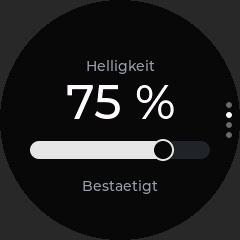
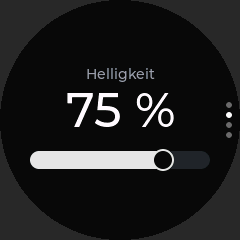
Round Controller: Statustexte entfernen
Auf den Seiten Ein/Aus und Helligkeit gibt es keine Statustexte mehr
("Bestaetigt", "Gateway offline", "Lampe aus" usw.). Zustand zeigen die
Statuspunkte (ESP-NOW, Licht an/aus), der Schalter und gesperrte Bedien-
elemente. Die Gateway-Seite zeigt weiterhin online/offline und Band.
Screenshots und README angepasst.

Claude-Session: https://claude.ai/code/session_01XRbTNR4FRdpa3sNittWBxo

Changed region(s): [[0.1167, 0.2333, 0.875, 0.8167]]

diff --git a/next/controller-round/main/ui.cpp b/next/controller-round/main/ui.cpp
@@ -1,6 +1,6 @@
 // Runde LVGL-Oberflaeche (240x240) im LeviLuma-Next-Skin (shadcn zinc_dark, Montserrat, Statuspunkte
 // und Symbole wie Next). Vier Seiten untereinander (senkrecht wischen, Seitenpunkte rechts):
-//   0 Ein/Aus: Schalter wie auf der RockBase-Uebersicht, Status
+//   0 Ein/Aus: Schalter wie auf der RockBase-Uebersicht, Statuspunkte (ESP-NOW, Licht an/aus)
 //   1 Helligkeit: waagerechter Regler (1..100 % wie Protokoll) mit grossem Prozentwert (wie Legacy)
 //   2 Farbe: Farbpunkte des Farbsets (LeviPalette) auf einem Kreis, Name und Hex in der Mitte,
 //     Tipp rechts = naechste, links = vorige Farbe (wie die Legacy-LCD-UI)
@@ -9,6 +9,8 @@
 // (die ESP-NOW-Befehle im gemeinsamen Protokoll bleiben bestehen).
 // Dazu eigene Bildschirme fuer die Gateway-Suche und die Schluesseleingabe.
 //
+// Keine Statustexte: Verbindung und Licht zeigen die Statuspunkte, gesperrte Bedienelemente zeigen,
+// dass gerade nichts gesteuert werden kann (Gateway offline, Band getrennt, Lampe aus).
 // Zustand: Angezeigt wird der vom Gateway bestaetigte LightState. Nur waehrend der Finger auf
 // dem Helligkeitsregler liegt bzw. ein Befehl unterwegs ist, zeigt die Oberflaeche den Eingabewert.
 #include <math.h>
@@ -34,9 +36,9 @@ static constexpr int PAGES = 4;
 static constexpr int PAGE_POWER = 0, PAGE_BRIGHT = 1, PAGE_COLOR = 2, PAGE_GATEWAY = 3;
 static lv_obj_t *mainScr, *tv, *pager[PAGES];
 // Ein/Aus
-static lv_obj_t *dotGw, *dotPower, *gwName, *powerSw, *statusLbl, *setupBox;
+static lv_obj_t *dotGw, *dotPower, *gwName, *powerSw, *setupBox;
 // Helligkeit
-static lv_obj_t *bright, *brightTitle, *brightLbl, *brightStatus;
+static lv_obj_t *bright, *brightTitle, *brightLbl;
 // Farbe
 static lv_obj_t *colorTile, *palDots[LeviPalette::N], *colorName, *colorHex;
 static int colorSel = -1; // Index der bestaetigten Farbe im Farbset, -1 = eigene Farbe
@@ -137,27 +139,6 @@ static void reportError(lvp_err_t e) {
   }
 }
 
-// ---------------- Gemeinsam ----------------
-
-static const char *statusText() {
-  if (!view.online) {
-    return "Gateway offline";
-  }
-  if (view.pending) {
-    return "Wird gesendet ...";
-  }
-  if (view.lastTimeout || view.lastError) {
-    return appErrorText(view.lastError, view.lastTimeout);
-  }
-  if (!view.stateValid) {
-    return "Abgleich ...";
-  }
-  if (!(view.state.flags & LVP_STATE_BLE)) {
-    return "Band getrennt";
-  }
-  return "Bestaetigt";
-}
-
 // ---------------- Seite Ein/Aus ----------------
 
 // Schalter wie auf der RockBase-Uebersicht (ui_home.cpp): Eingabe sendet, die Anzeige folgt der Bestaetigung
@@ -197,10 +178,6 @@ static void buildPower(lv_obj_t *tile) {
   lv_obj_set_ext_click_area(powerSw, 8);
   lv_obj_add_event_cb(powerSw, powerChanged, LV_EVENT_VALUE_CHANGED, nullptr);
 
-  statusLbl = label(tile, "", true);
-  lv_label_set_long_mode(statusLbl, LV_LABEL_LONG_MODE_DOTS);
-  lv_obj_set_width(statusLbl, 150);
-  lv_obj_align(statusLbl, LV_ALIGN_CENTER, 0, 60);
 
   // ohne gekoppeltes Gateway: Hinweis statt Bedienung
   setupBox = plainBox(tile);
@@ -217,7 +194,6 @@ static void refreshPower() {
   bool paired = haveView && view.paired;
   lv_obj_set_hidden(setupBox, paired);
   lv_obj_set_hidden(powerSw, !paired);
-  lv_obj_set_hidden(statusLbl, !paired);
   lv_obj_set_hidden(gwName, !paired);
   dotState(dotGw, paired ? (view.online ? 1 : 0) : -1);
   dotState(dotPower, paired && view.stateValid && view.state.power >= 0 ? (view.state.power == 1 ? 1 : 0) : -1);
@@ -230,7 +206,6 @@ static void refreshPower() {
   if (!view.pending) { // waehrend ein Befehl laeuft, bleibt die Eingabe sichtbar (wie RockBase)
     lv_obj_set_state(powerSw, LV_STATE_CHECKED, on);
   }
-  lv_label_set_text(statusLbl, statusText());
 }
 
 // ---------------- Seite Helligkeit ----------------
@@ -263,28 +238,24 @@ static void buildBrightness(lv_obj_t *tile) {
   bright = lv_slider_create(tile);
   lv_slider_set_range(bright, LVP_BRIGHTNESS_MIN, LVP_BRIGHTNESS_MAX);
   lv_obj_set_size(bright, 180, 18);
-  lv_obj_align(bright, LV_ALIGN_CENTER, 0, 30);
+  lv_obj_align(bright, LV_ALIGN_CENTER, 0, 40);
   lv_obj_set_ext_click_area(bright, 14);
   lv_obj_set_scroll_chain(bright, false);
   lv_obj_add_event_cb(bright, brightEvent, LV_EVENT_ALL, nullptr);
 
   brightTitle = label(tile, "Helligkeit", true);
-  lv_obj_align(brightTitle, LV_ALIGN_CENTER, 0, -54);
+  lv_obj_align(brightTitle, LV_ALIGN_CENTER, 0, -46);
   brightLbl = label(tile, "-");
   lv_obj_set_style_text_font(brightLbl, &lv_font_montserrat_48, 0);
-  lv_obj_align(brightLbl, LV_ALIGN_CENTER, 0, -18);
-  brightStatus = label(tile, "", true);
-  lv_label_set_long_mode(brightStatus, LV_LABEL_LONG_MODE_DOTS);
-  lv_obj_set_width(brightStatus, 130);
-  lv_obj_align(brightStatus, LV_ALIGN_CENTER, 0, 66);
+  lv_obj_align(brightLbl, LV_ALIGN_CENTER, 0, -10);
 }
 
 static void refreshBrightness() {
   bool paired = haveView && view.paired;
   lv_obj_set_hidden(bright, !paired);
   lv_obj_set_hidden(brightLbl, !paired);
+  lv_label_set_text(brightTitle, paired ? "Helligkeit" : "Kein Gateway");
   if (!paired) {
-    lv_label_set_text(brightStatus, "Kein Gateway");
     return;
   }
   bool on = lampOn();
@@ -296,7 +267,6 @@ static void refreshBrightness() {
     snprintf(t, sizeof(t), "%u %%", view.state.brightness);
     lv_label_set_text(brightLbl, t);
   }
-  lv_label_set_text(brightStatus, usable() && view.stateValid && !on && !view.pending ? "Lampe aus" : statusText());
 }
 
 // ---------------- Farbe (wie Legacy) ----------------

diff --git a/next/controller-round/README.md b/next/controller-round/README.md
@@ -88,7 +88,7 @@ Nebenläufigkeit wie beim RockBase-Controller: Der ESP-NOW-Callback kopiert nur 
 - Angezeigt wird der vom Gateway bestätigte Zustand (`STATE`). Nur während der Finger auf dem Helligkeitsregler liegt oder ein Befehl unterwegs ist, zeigt die Oberfläche den Eingabewert; danach gilt wieder der bestätigte Wert.
 - Wiederholung, Zusammenfassen (immer höchstens ein Befehl unterwegs, neuester Wert gewinnt), Zeitüberschreitung, Duplikaterkennung und Abgleich nach Neustart oder Offline-Phase übernimmt `CtrlLink` (wie beim RockBase-Controller). Veraltete Antworten (kleinere Revision derselben Sitzung) werden verworfen.
 - Zusätzlich sendet die Oberfläche beim Ziehen des Helligkeitsreglers höchstens alle 120 ms einen Befehl; der letzte Wert geht beim Loslassen immer raus.
-- Offline: nach drei verpassten Beacons. Die Bedienelemente werden gesperrt, der Status zeigt „Gateway offline“. Befehle werden nicht gesammelt. Ist das Gateway wieder da, wird der vollständige Zustand abgefragt.
+- Offline: nach drei verpassten Beacons. Der ESP-NOW-Punkt wird rot und die Bedienelemente werden gesperrt (keine Statustexte). Befehle werden nicht gesammelt. Ist das Gateway wieder da, wird der vollständige Zustand abgefragt.
 
 ## Bedienung
 
@@ -96,9 +96,8 @@ Vier Seiten untereinander, **senkrecht wischen**. Vier Punkte am rechten Rand ze
 
 1. **Ein/Aus:**
    - Oben: Gateway-Symbol mit Punkt (ESP-NOW-Verbindung grün/rot) und Glühbirne mit Punkt (Licht an grün, aus rot, unbekannt weiß), darunter der Gateway-Name.
-   - Mitte: der **Ein/Aus-Schalter** – derselbe Theme-Schalter wie auf der Übersicht des RockBase-Controllers; er ist zugleich die Statusanzeige. Während ein Befehl unterwegs ist, bleibt die Eingabe sichtbar; danach folgt der Schalter dem bestätigten Zustand.
-   - Unten: Status („Bestaetigt“, „Wird gesendet …“, „Gateway offline“, „Band getrennt“, „Keine Antwort“).
-2. **Helligkeit:** großer Prozentwert und darunter ein **waagerechter Regler** wie in Legacy (1–100 %, Bereich aus dem Protokoll), darunter der Status. Nur bei eingeschalteter Lampe aktiv („Lampe aus“).
+   - Mitte: der **Ein/Aus-Schalter** – derselbe Theme-Schalter wie auf der Übersicht des RockBase-Controllers. Zusammen mit den Statuspunkten ist er die einzige Zustandsanzeige; Statustexte gibt es bewusst nicht. Während ein Befehl unterwegs ist, bleibt die Eingabe sichtbar; danach folgt der Schalter dem bestätigten Zustand.
+2. **Helligkeit:** großer Prozentwert und darunter ein **waagerechter Regler** wie in Legacy (1–100 %, Bereich aus dem Protokoll). Nur bei eingeschalteter, erreichbarer Lampe bedienbar, sonst gesperrt.
 3. **Farbe:** wie die Legacy-LCD-UI – die 15 Farben des Farbsets (`LeviPalette`) als Punkte auf einem Kreis, die aktive Farbe weiß umrandet, in der Mitte Name und Hex-Wert. **Tipp rechts = nächste Farbe, links = vorige**, am Ende wieder vorn. Kein freier RGB-Wähler. Nur bei eingeschalteter Lampe aktiv.
 4. **Gateway:** Name, online/offline, zuletzt gesehen, Band verbunden/getrennt, ID (letzte drei Bytes), verschlüsselt ja/nein. ↻ = Verbindung erneut aufbauen (Erkennung + Zustandsabfrage), Mülleimer = Entkoppeln (mit Rückfrage). Ohne Kopplung: **Suchen** → Gateway wählen (Auge-Symbol = Schlüssel nötig) → ggf. Schlüssel eingeben.
 
@@ -120,7 +119,7 @@ Nach 20 s ohne Berührung geht die Beleuchtung aus; die nächste Berührung weck
 1. Display-Initialisierung und Touch mit LovyanGFX unter ESP-IDF (in Legacy unter Arduino bewährt), Touch-Drehung.
 2. LVGL-Darstellung auf dem Panel (Farben, Bytetausch, Lesbarkeit, Bedienung von Schalter, Helligkeitsregler und Farbwahl mit dem Finger, Wischen zwischen den Seiten).
 3. ESP-NOW-Erkennung, Kopplung (mit/ohne Schlüssel), Wiederverbindung nach Neustart von Controller und Gateway.
-4. Ein/Aus, Farbe, Helligkeit über das Gateway an der Leiste; Offline- und Timeout-Anzeige.
+4. Ein/Aus, Farbe, Helligkeit über das Gateway an der Leiste; Sperren der Bedienung bei Offline/Timeout.
 5. Gleichzeitiger Betrieb mit dem RockBase-Controller am selben Gateway.
 
 ## Bekannte Einschränkungen
